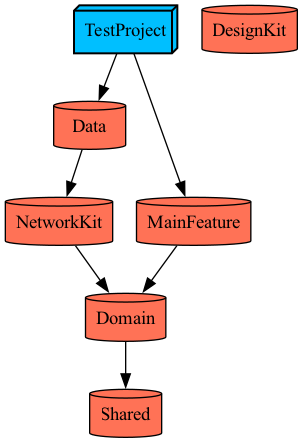
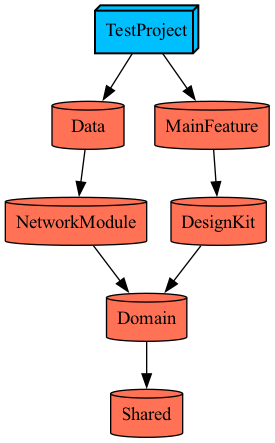
feat. Core 폴더 추가 및 DesignKit 위치 변경

diff --git a/TestProject/Tuist/ProjectDescriptionHelpers/Dependency+Project.swift b/TestProject/Tuist/ProjectDescriptionHelpers/Dependency+Project.swift
@@ -13,6 +13,7 @@ public extension TargetDependency {
     }
     
     struct Modules {}
+    struct Core {}
 }
 
 public extension TargetDependency.Modules {
@@ -20,8 +21,11 @@ public extension TargetDependency.Modules {
     static let domain = TargetDependency.project(target: "Domain", path: .domain)
     static let shared = TargetDependency.project(target: "Shared", path: .shared)
     
-    static let networkKit = TargetDependency.project(target: "NetworkKit", path: .relativeToModule("NetworkKit"))
-    static let designKit = TargetDependency.project(target: "DesignKit", path: .relativeToModule("DesignKit"))
+    static let networkModule = TargetDependency.project(target: "NetworkModule", path: .relativeToModule("NetworkModule"))
+}
+
+public extension TargetDependency.Core {
+    static let designKit = TargetDependency.project(target: "DesignKit", path: .relativeToCore("DesignKit"))
 }
 
 public extension TargetDependency.Features {

diff --git a/TestProject/Tuist/ProjectDescriptionHelpers/Path+.swift b/TestProject/Tuist/ProjectDescriptionHelpers/Path+.swift
@@ -16,6 +16,10 @@ public extension ProjectDescription.Path {
         return .relativeToRoot("Projects/Modules/\(path)")
     }
     
+    static func relativeToCore(_ path: String) -> Self {
+        return .relativeToRoot("Projects/Core/\(path)")
+    }
+    
     static var data: Self {
         return .relativeToRoot("Projects/Data")
     }

diff --git a/TestProject/Projects/Modules/NetworkModule/Project.swift b/TestProject/Projects/Modules/NetworkModule/Project.swift
@@ -9,9 +9,9 @@ import ProjectDescription
 import ProjectDescriptionHelpers
 
 let project = Project.configure(
-    moduleType: .module(name: "DesignKit"),
+    moduleType: .module(name: "NetworkModule"),
     product: .staticFramework,
     dependencies: [
-        
+        .Modules.domain
     ]
 )

diff --git a/TestProject/Projects/Core/DesignKit/Project.swift b/TestProject/Projects/Core/DesignKit/Project.swift
@@ -9,7 +9,7 @@ import ProjectDescription
 import ProjectDescriptionHelpers
 
 let project = Project.configure(
-    moduleType: .module(name: "NetworkKit"),
+    moduleType: .module(name: "DesignKit"),
     product: .staticFramework,
     dependencies: [
         .Modules.domain

diff --git a/TestProject/Projects/Data/Project.swift b/TestProject/Projects/Data/Project.swift
@@ -12,6 +12,6 @@ let project = Project.configure(
     moduleType: .module(name: "Data"),
     product: .staticFramework,
     dependencies: [
-        .Modules.networkKit
+        .Modules.networkModule
     ]
 )

diff --git a/TestProject/Projects/Features/MainFeature/Project.swift b/TestProject/Projects/Features/MainFeature/Project.swift
@@ -12,6 +12,6 @@ let project = Project.configure(
     moduleType: .feature(name: "Main"),
     product: .staticFramework,
     dependencies: [
-        .Modules.domain
+        .Core.designKit
     ]
 )
